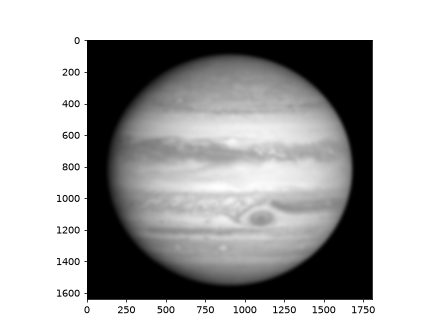
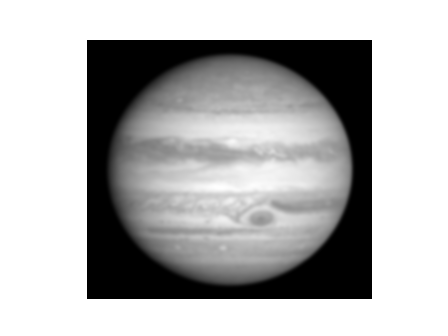
doterivanje z2 i z3

diff --git a/lab1/Zadatak 2/main.py b/lab1/Zadatak 2/main.py
@@ -5,7 +5,8 @@ import matplotlib.pyplot as plt
 img = cv2.imread("primer.png", cv2.IMREAD_GRAYSCALE)
 
 # Gausov kernel iste velicine kao slika
-kernel = cv2.getGaussianKernel(img.shape[0], 10) @ cv2.getGaussianKernel(img.shape[1], 10).T
+h, w = img.shape
+kernel = cv2.getGaussianKernel(h, 10) @ cv2.getGaussianKernel(w, 10).T
 
 img_fft = np.fft.fft2(img)
 kernel_fft = np.fft.fft2(np.fft.ifftshift(kernel))
@@ -14,8 +15,10 @@ kernel_fft = np.fft.fft2(np.fft.ifftshift(kernel))
 rezultat = np.abs(np.fft.ifft2(img_fft * kernel_fft))
 
 plt.imshow(img, cmap="gray")
+plt.axis("off")
 plt.show()
 
 plt.imshow(rezultat, cmap="gray")
+plt.axis("off")
 plt.savefig("rezultat.png", dpi=70)
 plt.show()

diff --git a/lab1/Zadatak 3/main.py b/lab1/Zadatak 3/main.py
@@ -24,8 +24,10 @@ faza = np.angle(img_mag_1)
 rezultat = prostorni_iz_fft(faza, np.exp(1j * img_fft_log))
 
 plt.imshow(img, cmap="gray")
+plt.axis("off")
 plt.show()
 
 plt.imshow(np.log(rezultat + 1e-12), cmap="gray")
+plt.axis("off")
 plt.savefig("rezultat.png", dpi=70)
 plt.show()
